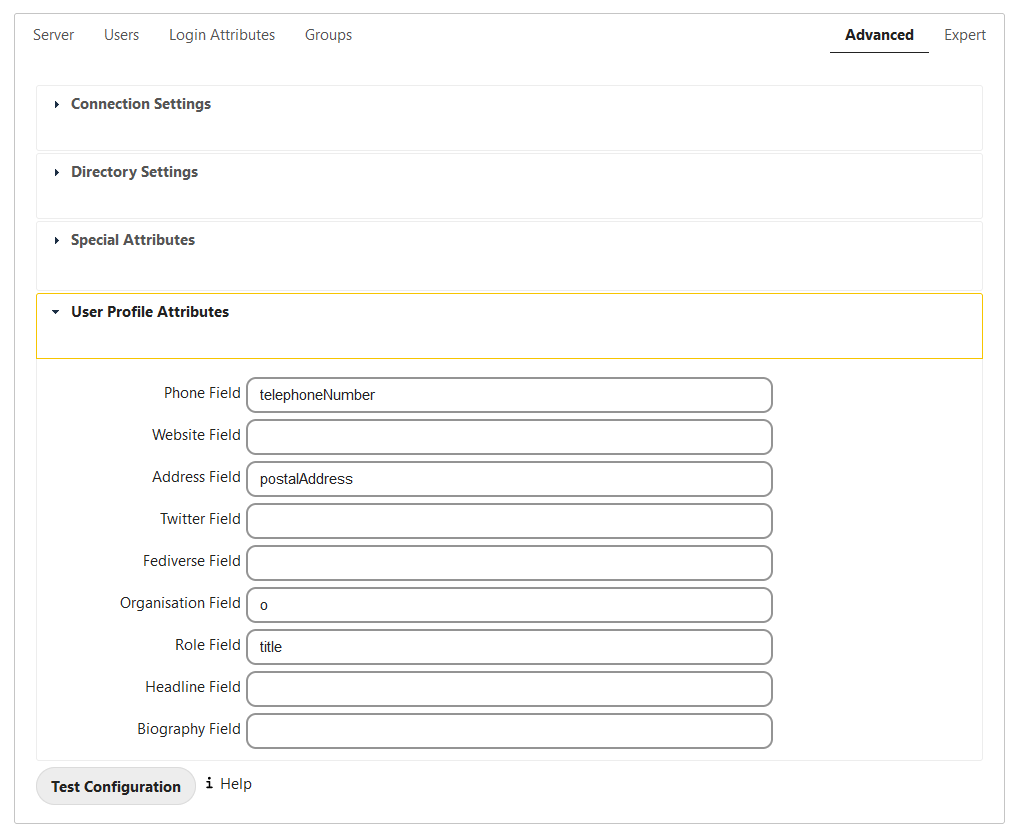
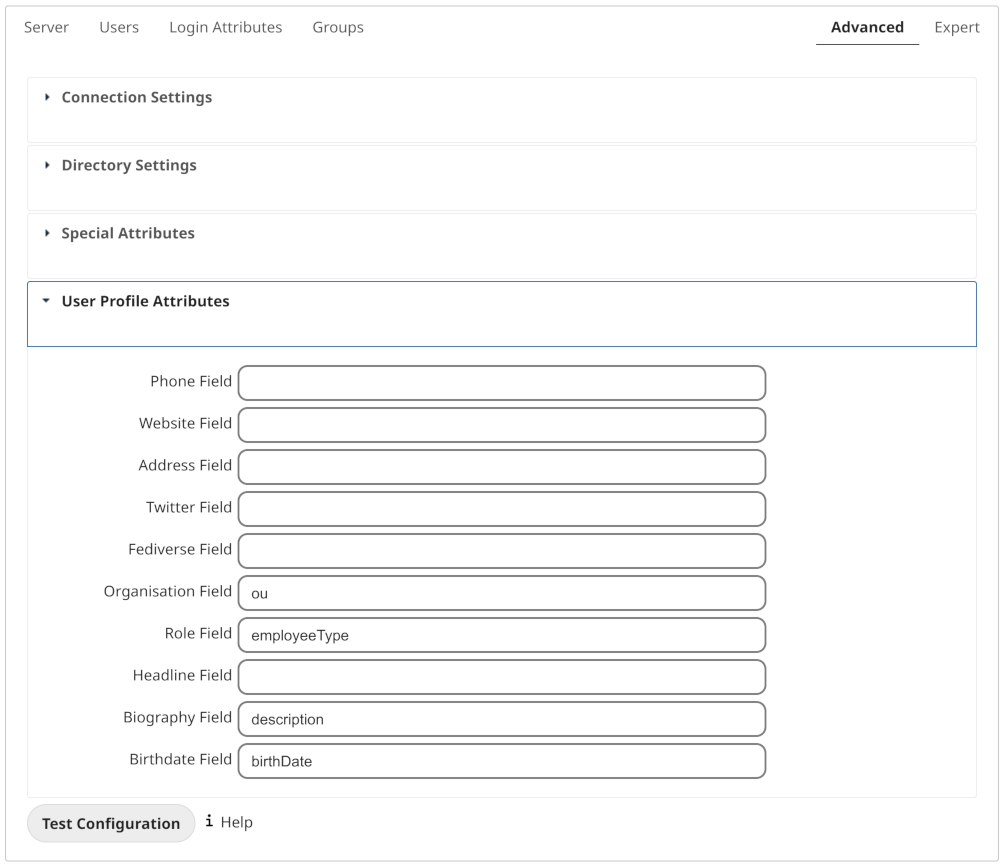
Add additional user profile attributes from LDAP

diff --git a/admin_manual/configuration_user/user_auth_ldap.rst b/admin_manual/configuration_user/user_auth_ldap.rst
@@ -549,6 +549,14 @@ Biography Field:
   Multi line value with unix LF line ending.
   Windows CRLF and Macintosh CR line endings will be replaced with unix LF line ending.
 
+Birthdate Field:
+  The LDAP attribute holding the user's date of birth.
+  Allowed formats:
+
+  * `LDAP GeneralizedTime <https://ldapwiki.com/wiki/Wiki.jsp?page=GeneralizedTime>`_
+  * ``YYYY-MM-DD``
+  * ``YYYYMMDD``
+
 Expert settings
 ---------------
 
